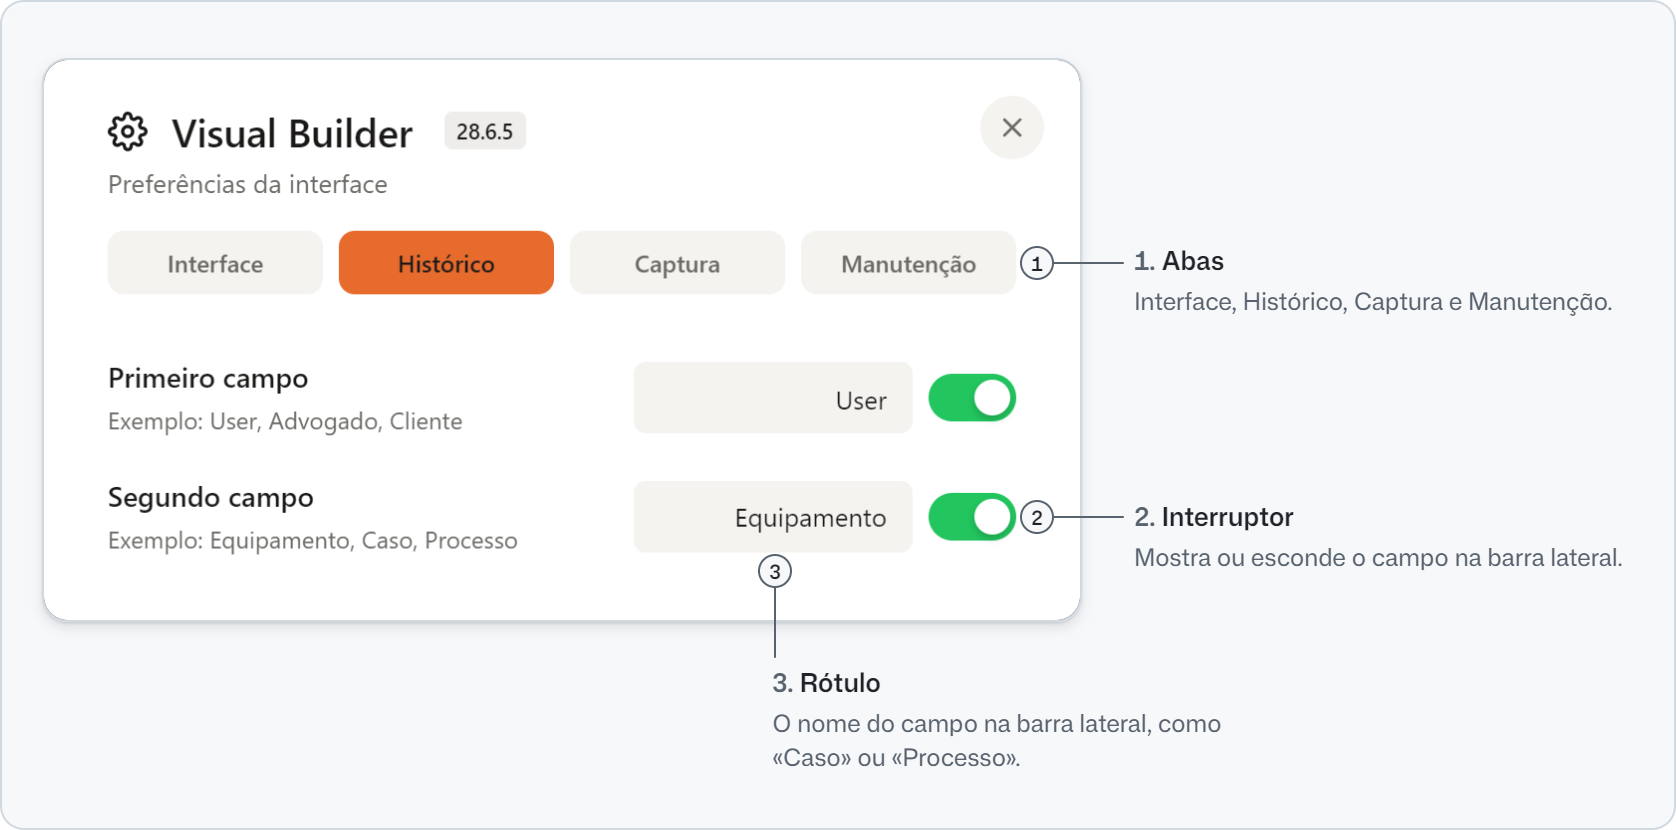
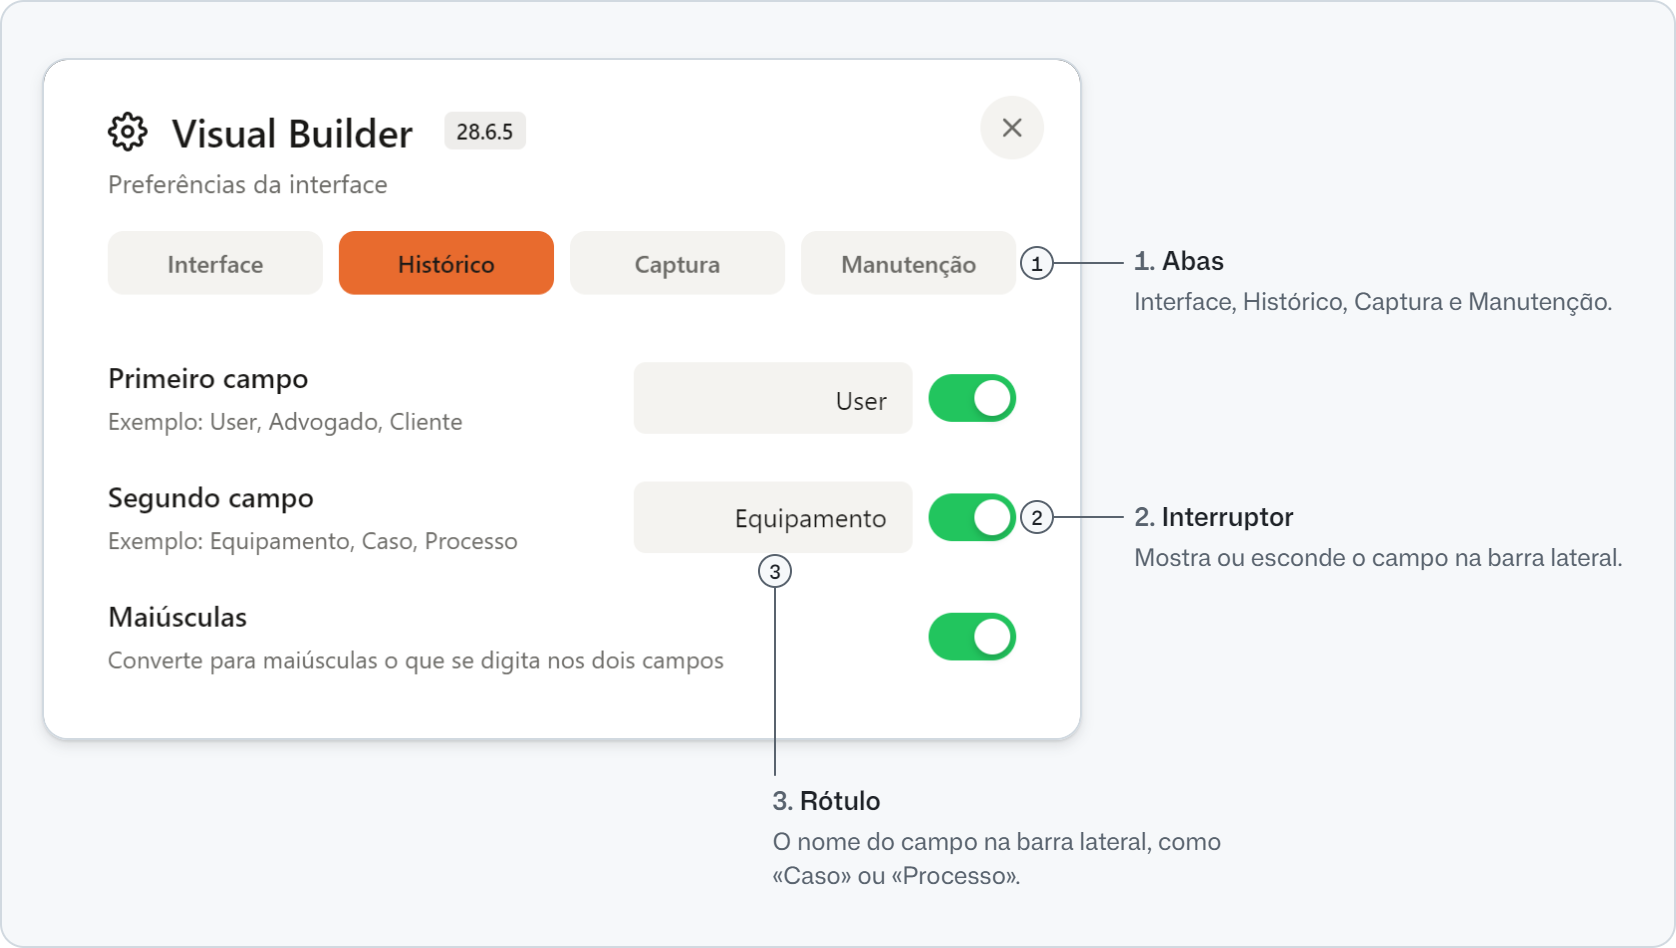
feat(ui): modo Maiúsculas no Visual Builder (D-0096)
Token novo TOKEN_ID_UPPERCASE, com o interruptor «Maiúsculas» no Visual Builder. Ligado (o padrão), o valor dos dois campos vira maiúsculas ao digitar, sem mexer no cursor; desligado, fica como foi digitado, também no nome da sessão. O placeholder mostra o rótulo como foi escrito, porque o CSS deixou de usar text-transform. As imagens overview.png e admin-mode.png são geradas de novo. O GIF do editor (annotation-arrow.gif) também é gravado de novo, pelo 13b.

diff --git a/capture-engine.html b/capture-engine.html
@@ -720,8 +720,7 @@
       font-size: var(--text-control);
       color: var(--color-foreground);
       outline: none;
-      transition: border-color var(--duration-moderate-01), box-shadow var(--duration-moderate-01);
-      text-transform: uppercase
+      transition: border-color var(--duration-moderate-01), box-shadow var(--duration-moderate-01)
     }
 
     .sess-input:focus {
@@ -3520,6 +3519,14 @@
                 class="toggle-slider"></span></label>
           </div>
         </div>
+        <div class="sb-row">
+          <div class="sb-info">
+            <div class="sb-row-title">Maiúsculas</div>
+            <div class="sb-row-desc">Converte para maiúsculas o que se digita nos dois campos</div>
+          </div>
+          <label class="toggle-switch"><input type="checkbox" id="cfg-id-upper" checked aria-label="Converter os dois campos para maiúsculas"><span
+              class="toggle-slider"></span></label>
+        </div>
       </div>
 
       <!-- TAB 2: CAPTURA -->
@@ -3636,6 +3643,7 @@
       let trashUrls = [];
       const TOKEN_USER_LABEL = '';
       const TOKEN_EQUIP_LABEL = '';
+      const TOKEN_ID_UPPERCASE = true; // the two identification fields turn what is typed into capitals (D-0096)
       const TOKEN_FOOTER_TEXT = '© {YEAR} • CAPTURE ENGINE • DIOGO CARVALHO';
       const TOKEN_JPEG_QUALITY = 0.92;
       const TOKEN_MAX_IMG_DIMENSION = 0;
@@ -3757,7 +3765,7 @@
       }
       async function createSession() { const s = { id: genId('sess'), name: '', createdAt: Date.now(), updatedAt: Date.now(), exported: false }; await idbPut('sessions', s); sessId = s.id; sessObj = s; SysLogger.info('Sessão criada: ' + sessId) }
       async function saveSession() { if (!sessId || !sessObj) return; sessObj.updatedAt = Date.now(); sessObj.name = $('session-name').value.trim(); sessObj.user = $('session-user').value.trim(); sessObj.pc = $('session-pc').value.trim(); await idbPut('sessions', sessObj) }
-      async function loadSession(id) { const s = await idbGet('sessions', id); if (!s) return; sessId = s.id; sessObj = s; $('session-name').value = s.name || ''; $('session-user').value = s.user || ''; $('session-pc').value = s.pc || ''; const imgs = await idbIdx('images', 'sessionId', id), dcs = await idbIdx('documents', 'sessionId', id), rems = await idbIdx('removed_images', 'sessionId', id); let remDocs = []; try { remDocs = await idbIdx('removed_documents', 'sessionId', id) } catch (e) { } images = [...imgs].filter(i => i.blob instanceof Blob && i.blob.size > 0).sort((a, b) => a.order - b.order); docs = [...dcs].filter(d => d.blob instanceof Blob && d.blob.size > 0).sort((a, b) => a.order - b.order); removed = [...rems].filter(r => r.blob instanceof Blob && r.blob.size > 0).sort((a, b) => (a.removedAt || 0) - (b.removedAt || 0)); removedDocs = [...remDocs].filter(r => r.blob instanceof Blob && r.blob.size > 0).sort((a, b) => (a.removedAt || 0) - (b.removedAt || 0)); $('thumb-grid').innerHTML = ''; $('doc-list').innerHTML = ''; $('img-empty').style.display = images.length ? 'none' : ''; $('doc-empty').style.display = docs.length ? 'none' : ''; for (const i of images) renderThumb(i); for (const d of docs) renderDoc(d); renderTrash(); updateCounters(); updateBtns(); isDirty = true; triggerSave(); SysLogger.info('Sessão carregada: ' + id) }
+      async function loadSession(id) { const s = await idbGet('sessions', id); if (!s) return; sessId = s.id; sessObj = s; $('session-name').value = s.name || ''; $('session-user').value = idUpper ? (s.user || '').toLocaleUpperCase('pt') : (s.user || ''); $('session-pc').value = idUpper ? (s.pc || '').toLocaleUpperCase('pt') : (s.pc || ''); const imgs = await idbIdx('images', 'sessionId', id), dcs = await idbIdx('documents', 'sessionId', id), rems = await idbIdx('removed_images', 'sessionId', id); let remDocs = []; try { remDocs = await idbIdx('removed_documents', 'sessionId', id) } catch (e) { } images = [...imgs].filter(i => i.blob instanceof Blob && i.blob.size > 0).sort((a, b) => a.order - b.order); docs = [...dcs].filter(d => d.blob instanceof Blob && d.blob.size > 0).sort((a, b) => a.order - b.order); removed = [...rems].filter(r => r.blob instanceof Blob && r.blob.size > 0).sort((a, b) => (a.removedAt || 0) - (b.removedAt || 0)); removedDocs = [...remDocs].filter(r => r.blob instanceof Blob && r.blob.size > 0).sort((a, b) => (a.removedAt || 0) - (b.removedAt || 0)); $('thumb-grid').innerHTML = ''; $('doc-list').innerHTML = ''; $('img-empty').style.display = images.length ? 'none' : ''; $('doc-empty').style.display = docs.length ? 'none' : ''; for (const i of images) renderThumb(i); for (const d of docs) renderDoc(d); renderTrash(); updateCounters(); updateBtns(); isDirty = true; triggerSave(); SysLogger.info('Sessão carregada: ' + id) }
 
       /* ═══ COUNTERS & BUTTONS ═══ */
       function updateCounters() { const ib = $('img-badge'); ib.textContent = images.length; ib.className = 'count-badge' + (images.length ? '' : ' zero'); const db = $('doc-badge'); db.textContent = docs.length; db.className = 'count-badge' + (docs.length ? '' : ' zero'); updateStatusBar() }
@@ -5905,6 +5913,11 @@
           $('session-pc').placeholder = e.target.value;
           isDirty = true;
         });
+        $('cfg-id-upper').addEventListener('change', (e) => {
+          idUpper = e.target.checked;
+          if (idUpper) ['session-user', 'session-pc'].forEach(id => { const f = $(id); f.value = f.value.toLocaleUpperCase('pt'); f.dispatchEvent(new Event('input')) });
+          isDirty = true;
+        });
 
         // Quality settings slider
         $('cfg-jpeg-quality').addEventListener('input', (e) => {
@@ -5947,6 +5960,7 @@
         $('cfg-user-label').placeholder = '';
         $('cfg-equip-label').value = TOKEN_EQUIP_LABEL || 'Equipamento';
         $('cfg-equip-label').placeholder = '';
+        $('cfg-id-upper').checked = TOKEN_ID_UPPERCASE;
         $('cfg-footer-text').value = TOKEN_FOOTER_TEXT || '';
 
         $('cfg-jpeg-quality').value = Math.round(TOKEN_JPEG_QUALITY * 100);
@@ -6040,7 +6054,11 @@
       }
 
       /* ═══ SESSION INPUT SYNC ═══ */
-      function initSessionSync() { async function up() { await ensureSession(); const u = $('session-user').value.trim().toUpperCase(), p = $('session-pc').value.trim().toUpperCase(); const parts = [u, p].filter(Boolean); const name = parts.join('-'); $('session-name').value = name; updateBtnTitles(); isDirty = true; triggerSave(); const ae = document.querySelector('.sb-sess-item.active .sb-sess-name'); if (ae) ae.textContent = name || ae.dataset.fallback || ae.textContent } $('session-user').oninput = up; $('session-pc').oninput = up }
+      /* Capitals mode (D-0096): the value itself turns into capitals as it is typed, the cursor stays where it was (ß becomes SS,
+         so the position is measured on the converted text), and nothing changes in the middle of a composition (accents, IME) */
+      let idUpper = TOKEN_ID_UPPERCASE;
+      function upperKeepCaret(f) { const v = f.value, up = v.toLocaleUpperCase('pt'); if (up === v) return; const a = v.slice(0, f.selectionStart).toLocaleUpperCase('pt').length, z = v.slice(0, f.selectionEnd).toLocaleUpperCase('pt').length; f.value = up; f.setSelectionRange(a, z) }
+      function initSessionSync() { async function up(e) { if (idUpper && e && e.target && !e.isComposing) upperKeepCaret(e.target); await ensureSession(); const fx = v => idUpper ? v.toLocaleUpperCase('pt') : v; const u = fx($('session-user').value.trim()), p = fx($('session-pc').value.trim()); const parts = [u, p].filter(Boolean); const name = parts.join('-'); $('session-name').value = name; updateBtnTitles(); isDirty = true; triggerSave(); const ae = document.querySelector('.sb-sess-item.active .sb-sess-name'); if (ae) ae.textContent = name || ae.dataset.fallback || ae.textContent } $('session-user').oninput = up; $('session-pc').oninput = up; $('session-user').addEventListener('compositionend', up); $('session-pc').addEventListener('compositionend', up) }
 
 
       /* ═══ PDF ENGINE (JPEG COMPRESSED) ═══ */
@@ -6132,7 +6150,7 @@ const safeDocName = dc.name.replace(/[/\\]/g, '_').replace(/\.\.\//g, '').replac
         html = html.replace(/const TOKEN_TITLE_END\s*=\s*'(?:[^'\\]|\\.)*'/, () => "const TOKEN_TITLE_END = '" + te + "'");
           html = html.replace(/const TOKEN_TITLE_START_COLOR\s*=\s*'(?:[^'\\]|\\.)*'/, () => "const TOKEN_TITLE_START_COLOR = '" + sanitizeForQuine(sysColors.tStart || '') + "'");
           html = html.replace(/const TOKEN_TITLE_ACCENT_COLOR\s*=\s*'(?:[^'\\]|\\.)*'/, () => "const TOKEN_TITLE_ACCENT_COLOR = '" + sanitizeForQuine(sysColors.tAccent || '') + "'");
-          html = html.replace(/const TOKEN_TITLE_END_COLOR\s*=\s*'(?:[^'\\]|\\.)*'/, () => "const TOKEN_TITLE_END_COLOR = '" + sanitizeForQuine(sysColors.tEnd || '') + "'"); html = html.replace(/const TOKEN_SHOW_SESSION_USER\s*=\s*[^;]+/, 'const TOKEN_SHOW_SESSION_USER = ' + showU); html = html.replace(/const TOKEN_SHOW_SESSION_PC\s*=\s*[^;]+/, 'const TOKEN_SHOW_SESSION_PC = ' + showP); html = html.replace(/const TOKEN_USER_LABEL\s*=\s*'(?:[^'\\]|\\.)*'/, () => "const TOKEN_USER_LABEL = '" + uLbl + "'"); html = html.replace(/const TOKEN_EQUIP_LABEL\s*=\s*'(?:[^'\\]|\\.)*'/, () => "const TOKEN_EQUIP_LABEL = '" + eLbl + "'"); html = html.replace(/const TOKEN_FOOTER_TEXT\s*=\s*'(?:[^'\\]|\\.)*'/, () => "const TOKEN_FOOTER_TEXT = '" + fText + "'"); html = html.replace(/const TOKEN_JPEG_QUALITY\s*=\s*[^;]+/, 'const TOKEN_JPEG_QUALITY = ' + jq); html = html.replace(/const TOKEN_MAX_IMG_DIMENSION\s*=\s*[^;]+/, 'const TOKEN_MAX_IMG_DIMENSION = ' + maxD); html = html.replace(/const TOKEN_AUTO_PURGE_HOURS\s*=\s*[^;]+/, 'const TOKEN_AUTO_PURGE_HOURS = ' + purge); html = html.replace(/const TOKEN_DEBUG_MODE\s*=\s*[^;]+/, () => 'const TOKEN_DEBUG_MODE = ' + (isUser ? 'false' : 'true')); if (isUser) {
+          html = html.replace(/const TOKEN_TITLE_END_COLOR\s*=\s*'(?:[^'\\]|\\.)*'/, () => "const TOKEN_TITLE_END_COLOR = '" + sanitizeForQuine(sysColors.tEnd || '') + "'"); html = html.replace(/const TOKEN_SHOW_SESSION_USER\s*=\s*[^;]+/, 'const TOKEN_SHOW_SESSION_USER = ' + showU); html = html.replace(/const TOKEN_SHOW_SESSION_PC\s*=\s*[^;]+/, 'const TOKEN_SHOW_SESSION_PC = ' + showP); html = html.replace(/const TOKEN_ID_UPPERCASE\s*=\s*(?:true|false)/, 'const TOKEN_ID_UPPERCASE = ' + ($('cfg-id-upper') ? $('cfg-id-upper').checked : idUpper)); html = html.replace(/const TOKEN_USER_LABEL\s*=\s*'(?:[^'\\]|\\.)*'/, () => "const TOKEN_USER_LABEL = '" + uLbl + "'"); html = html.replace(/const TOKEN_EQUIP_LABEL\s*=\s*'(?:[^'\\]|\\.)*'/, () => "const TOKEN_EQUIP_LABEL = '" + eLbl + "'"); html = html.replace(/const TOKEN_FOOTER_TEXT\s*=\s*'(?:[^'\\]|\\.)*'/, () => "const TOKEN_FOOTER_TEXT = '" + fText + "'"); html = html.replace(/const TOKEN_JPEG_QUALITY\s*=\s*[^;]+/, 'const TOKEN_JPEG_QUALITY = ' + jq); html = html.replace(/const TOKEN_MAX_IMG_DIMENSION\s*=\s*[^;]+/, 'const TOKEN_MAX_IMG_DIMENSION = ' + maxD); html = html.replace(/const TOKEN_AUTO_PURGE_HOURS\s*=\s*[^;]+/, 'const TOKEN_AUTO_PURGE_HOURS = ' + purge); html = html.replace(/const TOKEN_DEBUG_MODE\s*=\s*[^;]+/, () => 'const TOKEN_DEBUG_MODE = ' + (isUser ? 'false' : 'true')); if (isUser) {
           html = html.replace(/<!-- ADMIN_BUTTONS_START -->[\s\S]*?<!-- ADMIN_BUTTONS_END -->/g,'');html=html.replace(/<!-- ADMIN_EDIT_START -->[\s\S]*?<!-- ADMIN_EDIT_END -->/g,'');html=html.replace(/\/\* ADMIN_JS_START \*\/[\s\S]*?\/\* ADMIN_JS_END \*\//g,'');html=html.replace(/<!-- EXPORT MODAL -->[\s\S]*?<!-- FIM EXPORT MODAL -->/g,'')}const blob=new Blob([html],{type:'text/html;charset=utf-8'});dlBlob(blob,buildFilename('html',(ts+' '+ta+(te?' '+te:''))));SysLogger.info('Export '+(isUser?'User':'Admin')+' concluído')};
             /* ADMIN_JS_END */
 

diff --git a/AGENTS.md b/AGENTS.md
@@ -1427,6 +1427,7 @@ Estas decisões foram explicitamente confirmadas pelo proprietário do projeto e
 | D-0099 | **Cena do GIF do editor: neutra, sem datas, e a seta sai de dentro da janela** | A captura é uma área de trabalho com o programa fictício «Orbita», uma DLL selecionada e uma notificação de erro, só com palavras iguais no Brasil e em Portugal. A seta de 4 px sai do painel da esquerda e termina na DLL. Substitui a frase da D-0091 sobre a seta partir do canto de baixo à esquerda. Origem: pedido do dono, 2026-11-05. |
 | D-0100 | **O botão do meio também agarra uma anotação** | Em qualquer ferramenta, o botão do meio sobre uma anotação faz o mesmo que o botão direito: agarra e move. Num lugar sem anotação, continua a mover a imagem ampliada. Fora do Selecionar, a anotação agarrada não fica selecionada ao soltar, porque as alças só funcionam no Selecionar (F-0082). Origem: pedido do dono, 2026-11-05. |
 | D-0098 | **Os botões secundários do visualizador seguem a regra das ferramentas do editor** | «Download» e «Restaurar» têm a classe `.btn-viewer`, que entra nas mesmas duas regras de `#img-modal-overlay .ann-btn` (normal e `:hover`), com os tokens `--color-viewer-control*`. Uma mudança nessas cores muda os dois. «Editar» segue só o `.btn-send`, como «.pdf» e «.zip». Os três medem 120 × 36 px. Antes, uma regra própria do «Download» nunca valia, por causa do `style` inline (F-0080). Origem: pedido do dono, 2026-11-05. |
+| D-0096 | **Identificação: «Maiúsculas» ou texto livre** | `TOKEN_ID_UPPERCASE` (padrão `true`, interruptor «Maiúsculas» no Visual Builder, aba Histórico). Ligado, o próprio valor dos dois campos vira maiúsculas ao digitar, com `toLocaleUpperCase('pt')`, sem mexer no cursor e fora de uma composição; uma sessão antiga aberta tem o valor convertido. Desligado, o texto e o nome da sessão ficam como foram digitados. O placeholder mostra o rótulo como foi escrito: o CSS deixou de usar `text-transform`. Antes, o valor só parecia maiúsculo. Origem: pedido do dono, 2026-11-04 e 2026-11-05. |
 | D-0091 | **O GIF do editor é refeito com o editor** (a frase sobre onde a seta parte foi substituída pela D-0099) | O GIF de destaque do README §6.3 (`docs/images/annotation-arrow.gif`) mostra o editor, a barra de ferramentas e o visualizador depois de salvar. Uma mudança numa dessas partes grava o GIF de novo no mesmo commit, com o `gif.py` do repositório dos prompts (preparo `capture-engine-editor-arrow`), e confere com `--verificar`. A seta parte do canto de baixo à esquerda. Assim, o cursor atravessa a barra pelo vão entre Selecionar e Girar 90°. Por cima de um botão, o efeito de passar o mouse mudaria de uma gravação para outra. Fecha a P-0001. Origem: plano dos pendentes, 2026-11-02. |
 
 ### Pendentes

diff --git a/README.md b/README.md
@@ -425,6 +425,7 @@ Os tokens são as variáveis internas que controlam o comportamento da ferrament
 | `TOKEN_SHOW_SESSION_PC` | Mostra/oculta o segundo campo (Equipamento) |
 | `TOKEN_USER_LABEL` | Rótulo do primeiro campo (vazio = usa "User") |
 | `TOKEN_EQUIP_LABEL` | Rótulo do segundo campo (vazio = usa "Equipamento") |
+| `TOKEN_ID_UPPERCASE` | Converte para maiúsculas o que se digita nos dois campos (desligado = o texto fica como foi digitado) |
 | `TOKEN_JPEG_QUALITY` | Qualidade de compressão JPEG no export PDF |
 | `TOKEN_MAX_IMG_DIMENSION` | Dimensão máxima das imagens **na geração do PDF** (0 = sem limite). Não afeta o armazenamento: as imagens são sempre guardadas no formato original |
 | `TOKEN_AUTO_PURGE_HOURS` | Horas sem uso até a limpeza automática: 8, 24, 48 ou 0 («Nunca»), como no Visual Builder. Ver a nota abaixo da tabela. |

diff --git a/design-tokens.md b/design-tokens.md
@@ -267,6 +267,7 @@ Estes tokens estão declarados como `const` no topo do IIFE do JavaScript. São 
 | `TOKEN_SHOW_SESSION_PC` | `bool` | `true` | ✅ | Histórico → «Segundo campo», interruptor |
 | `TOKEN_USER_LABEL` | `string` | `''` | ✅ | Histórico → «Primeiro campo», rótulo |
 | `TOKEN_EQUIP_LABEL` | `string` | `''` | ✅ | Histórico → «Segundo campo», rótulo |
+| `TOKEN_ID_UPPERCASE` | `bool` | `true` | ✅ | Histórico → «Maiúsculas», interruptor |
 | `TOKEN_JPEG_QUALITY` | `float` | `0.92` | ✅ | Captura → "Qualidade do PDF" |
 | `TOKEN_MAX_IMG_DIMENSION` | `int` | `0` | ✅ | Captura → dimensão máxima |
 | `TOKEN_AUTO_PURGE_HOURS` | `int` | `48` | ✅ | Manutenção → «Limpeza automática» (8h, 24h, 48h, Nunca). O valor 0 desliga a limpeza; ver a nota no README §7.4 |
